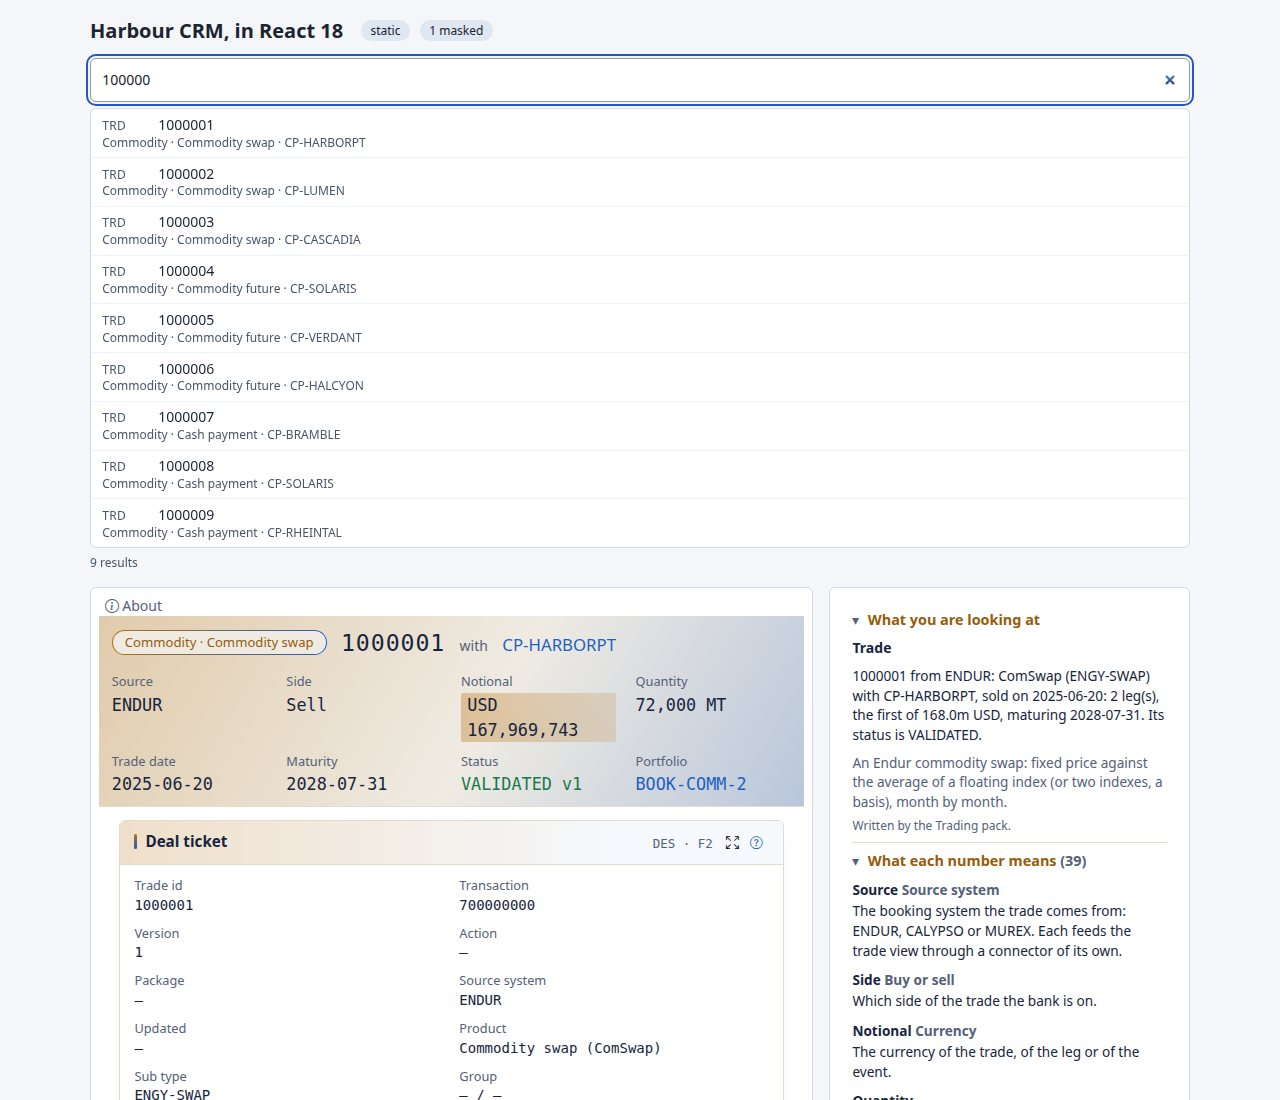
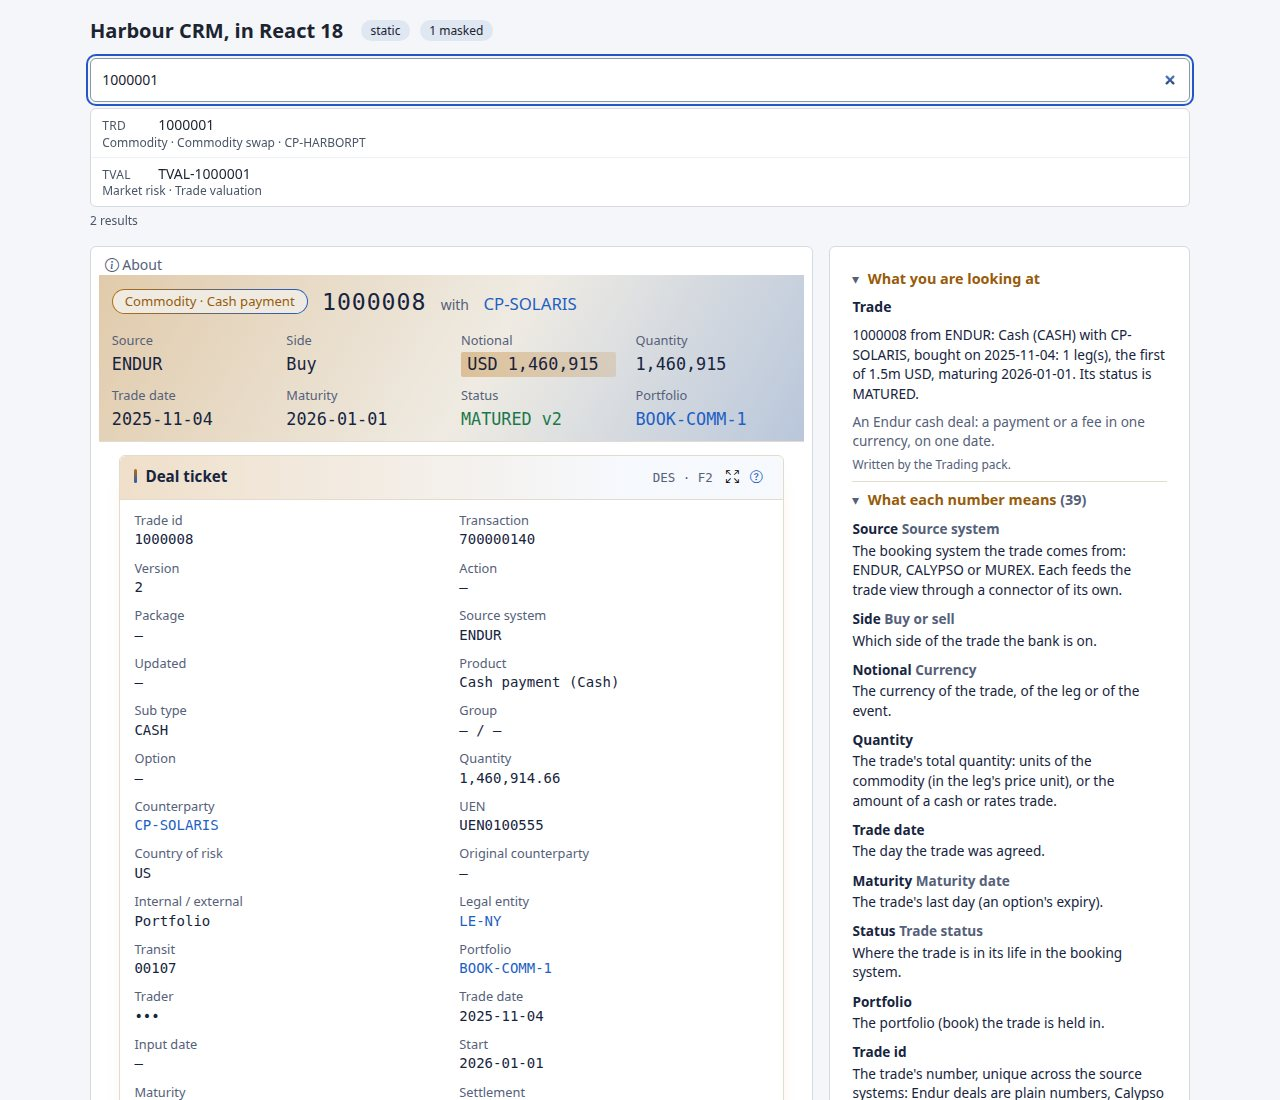
Tutorial 16 picture 11 (the React sample) remade: the search types 1000001, an ENDUR id of the production-shaped data (END-1000 no longer exists); CHANGELOG

Changed region(s): [[0.0625, 0.1545, 0.9062, 1.0], [0.3438, 0.4636, 0.4375, 0.4945]]

diff --git a/tools/docs/shots/t16.py b/tools/docs/shots/t16.py
@@ -219,7 +219,7 @@ def react_sample(c: Ctx):
         c.page.goto(HOST + "/samples/react/index.html")
         c.page.wait_for_function("() => { const e = document.querySelector('#view'); return e && /^(live|static)$/.test(e.getAttribute('data-state') || '') }", timeout=60000)
         c.page.wait_for_function("() => { const e = document.querySelector('#about'); return e && e.getAttribute('data-state') === 'loaded' }", timeout=60000)
-        c.page.locator("drishti-search input").fill("END-1000")
+        c.page.locator("drishti-search input").fill("1000001")         # an ENDUR trade id (production-shaped ids since 2.3.0)
         c.page.locator("drishti-search button.ds-hit").first.wait_for(timeout=30000)
         c.page.wait_for_timeout(1500)
         c.save("11-react-sample.jpg")

diff --git a/CHANGELOG.md b/CHANGELOG.md
@@ -128,6 +128,8 @@
   measures in a 2×2 beside it.
 - **Tutorial 14 pictures 25 to 29 remade** on a demo lake with `NOTIONAL` (`drishti.py lake demo --as-of 2026-10-16`, outside the repository,
   then removed): the Transform input, profile and steps, the Python console and its promoted run (12,751 live trades of 15,000) match the text.
+- **Tutorial 16 picture 11 remade** (the React sample, after `fetch-vendor.sh --only react`, whose builds stay git-ignored): the search types
+  `1000001`, an ENDUR trade id of the production-shaped data (it typed `END-1000`, an id of the data before 2.3.0, and found nothing).
 
 ## 2.4.0 — BI Studio, report schema v2 and boards as a report layout, Python data prep, the browser Python console, query by form at scale (2026-10-19)
 

diff --git a/docs/tutorials/16-embed-drishti.md b/docs/tutorials/16-embed-drishti.md
@@ -284,7 +284,7 @@ The repository has the same page as **React, Vue and Angular** samples in `docs/
 
 ![The React sample: a search box, the view, its About body and the report, in one host page](img/t16/11-react-sample.jpg)
 
-You should see the search box above the view; type `END-1000` and pick a result, and the view and the About body follow. The page keeps the strict policy of step 7. [ELEMENTS.md](../guides/ELEMENTS.md#react-angular-and-vue-sample-pages).
+You should see the search box above the view; type `1000001` (an ENDUR trade) and pick a result, and the view and the About body follow. The page keeps the strict policy of step 7. [ELEMENTS.md](../guides/ELEMENTS.md#react-angular-and-vue-sample-pages).
 
 ## Next steps
 
